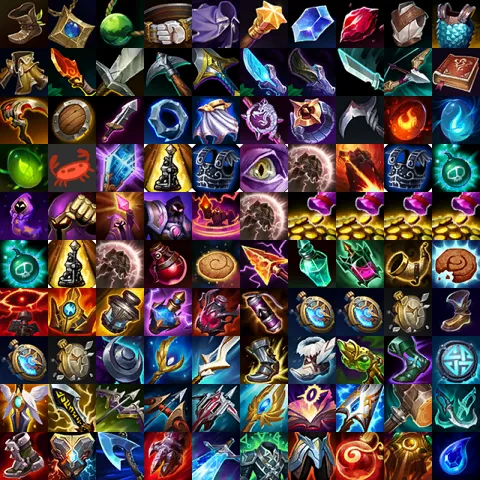
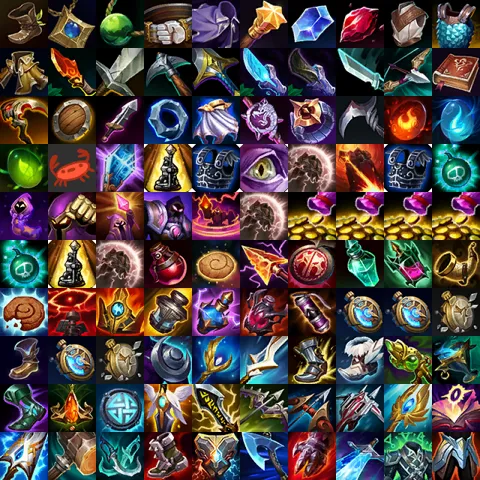
Items are now created using Riot Item API - updated sprite images

diff --git a/src/main/java/me/trup10ka/jlb/web/parser/ugg/HtmlBuildUGGParser.java b/src/main/java/me/trup10ka/jlb/web/parser/ugg/HtmlBuildUGGParser.java
@@ -2,10 +2,10 @@ package me.trup10ka.jlb.web.parser.ugg;
 
 import me.trup10ka.jlb.data.lolgame.*;
 import me.trup10ka.jlb.util.Descriptions;
-import me.trup10ka.jlb.util.itemssheet.ItemSheetCSVParser;
 import me.trup10ka.jlb.web.Page;
 import me.trup10ka.jlb.web.WrongChampionPathException;
 import me.trup10ka.jlb.web.parser.HtmlBuildPageParser;
+import me.trup10ka.jlb.web.riotapi.items.ItemRiotJSONParser;
 import org.jsoup.Connection;
 import org.jsoup.Jsoup;
 import org.jsoup.nodes.Document;
@@ -30,6 +30,8 @@ public class HtmlBuildUGGParser implements HtmlBuildPageParser
     private Document document;
     private Connection connection;
 
+    private ItemRiotJSONParser riotJSONParser;
+
     public HtmlBuildUGGParser(String champion)
     {
         setChampionToParse(champion);
@@ -42,6 +44,7 @@ public class HtmlBuildUGGParser implements HtmlBuildPageParser
         {
             this.connection = Jsoup.connect(Page.U_GG.championURL(champion));
             this.document = parse();
+            this.riotJSONParser = new ItemRiotJSONParser();
         }
         catch (RuntimeException ignored) {}
         if (validate(document))
@@ -198,8 +201,7 @@ public class HtmlBuildUGGParser implements HtmlBuildPageParser
     private Set<Item> queryItemPosition(String itemCategory)
     {
         Set<Item> coreItems = new TreeSet<>();
-
-        int[] usedPositionValues = null;
+        float[] usedPositionValues = null;
         String usedImagePath = null;
 
         for (Element element : document.select(itemCategory).select("div.item-img"))
@@ -207,28 +209,19 @@ public class HtmlBuildUGGParser implements HtmlBuildPageParser
             String startingItem = element.select("div > div").select("div > div")
                     .attr("style");
             String imagePath = imagePath(startingItem);
-            int[] positionValues = positionOfImage(startingItem);
-
+            float[] positionValues = positionOfImage(startingItem);
             if (usedPositionValues == null)
             {
-                usedPositionValues = new int[2];
+                usedPositionValues = new float[2];
                 setValuesForUsedVariables(usedPositionValues, positionValues);
                 usedImagePath = imagePath;
-                String nameOfItem = ItemSheetCSVParser.generateNameFromGivenPositionsAndSprite(positionValues, imagePath);
-                String itemDescription = Descriptions.getDescriptionOfItem(nameOfItem);
-                coreItems.add(new Item(nameOfItem, imagePath, itemDescription, positionValues[0], positionValues[1]));
+                coreItems.add(riotJSONParser.getItem(positionValues, imagePath));
                 continue;
             }
 
             if (isItemAlreadyRegistered(usedImagePath, imagePath, usedPositionValues, positionValues))
                 break;
-            String nameOfItem = ItemSheetCSVParser.generateNameFromGivenPositionsAndSprite(positionValues, imagePath);
-            String itemDescription = Descriptions.getDescriptionOfItem(nameOfItem);
-            coreItems.add(new Item(nameOfItem
-                    ,imagePath
-                    ,itemDescription
-                    ,positionValues[0]
-                    ,positionValues[1]));
+            coreItems.add(riotJSONParser.getItem(positionValues, imagePath));
         }
         return coreItems;
     }
@@ -275,7 +268,6 @@ public class HtmlBuildUGGParser implements HtmlBuildPageParser
     {
         Pattern pattern = Pattern.compile("\\((.*?)\\)");
         Matcher matcher = pattern.matcher(image);
-
         String url = matcher.find() ? matcher.group(0) : "";
 
         return url.substring(url.lastIndexOf("/") + 1, url.length() - 1).replaceAll("webp", "png");
@@ -286,7 +278,7 @@ public class HtmlBuildUGGParser implements HtmlBuildPageParser
      * @param image item image URL
      * @return array of background positions x and y
      */
-    private int[] positionOfImage(String image)
+    private float[] positionOfImage(String image)
     {
         Pattern pattern = Pattern.compile("(?<=background-position:).*?(?=;)");
         Matcher matcher = pattern.matcher(image);
@@ -295,9 +287,9 @@ public class HtmlBuildUGGParser implements HtmlBuildPageParser
         String positionParseAble = position.replaceAll("px", "");
         String[] result = positionParseAble.split(" ");
 
-        int positionX = Integer.parseInt(result[0]);
-        int positionY = Integer.parseInt(result[1]);
-        return new int[]{positionX, positionY};
+        float positionX = Float.parseFloat(result[0]);
+        float positionY = Float.parseFloat(result[1]);
+        return new float[]{positionX, positionY};
     }
     /**
      * Checks whether the specified item is already saved
@@ -310,8 +302,8 @@ public class HtmlBuildUGGParser implements HtmlBuildPageParser
      */
     private boolean isItemAlreadyRegistered(String usedImagePath,
                                             String imagePath,
-                                            int[] positionValues,
-                                            int[] usedPositionValues)
+                                            float[] positionValues,
+                                            float[] usedPositionValues)
     {
         return usedPositionValues[0] == positionValues[0] && usedPositionValues[1] == positionValues[1] && usedImagePath.equals(imagePath);
     }
@@ -321,7 +313,7 @@ public class HtmlBuildUGGParser implements HtmlBuildPageParser
      * @param usedPositionValues old used position values
      * @param positionValues new position values
      */
-    private void setValuesForUsedVariables(int[] usedPositionValues, int[] positionValues)
+    private void setValuesForUsedVariables(float[] usedPositionValues, float[] positionValues)
     {
         usedPositionValues[0] = positionValues[0];
         usedPositionValues[1] = positionValues[1];

diff --git a/src/main/java/me/trup10ka/jlb/web/riotapi/items/ItemRiotJSONParser.java b/src/main/java/me/trup10ka/jlb/web/riotapi/items/ItemRiotJSONParser.java
@@ -1,0 +1,107 @@
+package me.trup10ka.jlb.web.riotapi.items;
+
+import me.trup10ka.jlb.data.lolgame.Item;
+import me.trup10ka.jlb.util.FormattedString;
+import org.apache.commons.io.IOUtils;
+import org.json.JSONObject;
+
+import java.io.IOException;
+import java.net.MalformedURLException;
+import java.net.URL;
+import java.nio.charset.StandardCharsets;
+
+
+public final class ItemRiotJSONParser
+{
+
+    private final URL apiURL;
+
+    private final JSONObject allItems;
+
+
+    public ItemRiotJSONParser()
+    {
+        URL url = null;
+        try
+        {
+            String RIOT_API_STRING = "http://ddragon.leagueoflegends.com/cdn/13.10.1/data/en_US/item.json";
+            url = new URL(RIOT_API_STRING);
+        } catch (MalformedURLException e)
+        {
+            System.out.println("connection failed");
+        }
+        this.apiURL = url;
+        this.allItems = getJSON();
+    }
+
+    private JSONObject getJSON()
+    {
+        String json = null;
+        try
+        {
+            json = IOUtils.toString(apiURL, StandardCharsets.UTF_8);
+        } catch (IOException e)
+        {
+            System.err.println("Error during getting JSON document");
+        }
+        assert json != null;
+        return new JSONObject(json).getJSONObject("data");
+    }
+
+    public Item getItem(String nameOfItem)
+    {
+        for (String key : allItems.keySet())
+        {
+            JSONObject item = allItems.getJSONObject(key);
+            String nameOfTheItem = item.getString("name");
+            if (FormattedString.CSV_NAME_FORMAT.toFormat(nameOfTheItem)
+                    .equals(FormattedString.CSV_NAME_FORMAT.toFormat(nameOfItem)))
+            {
+                String itemName = FormattedString.ITEM_DESCRIPTION.toFormat(nameOfTheItem);
+                String imageName = item.getJSONObject("image").getString("sprite");
+                String itemDescription = getDescriptionOfParticularItem(item);
+                float x = getItemPositionsInSprite(item.getJSONObject("image"))[0];
+                float y = getItemPositionsInSprite(item.getJSONObject("image"))[1];
+                return new Item(itemName, imageName, itemDescription, x, y);
+            }
+        }
+        System.err.println("Item was not found");
+        return null;
+    }
+
+    public Item getItem(float[] itemPositionsInSpriteImage, String imageSprite)
+    {
+        for (String key : allItems.keySet())
+        {
+            JSONObject item = allItems.getJSONObject(key);
+            JSONObject itemPositions = item.getJSONObject("image");
+            if (-itemPositions.getFloat("x") == itemPositionsInSpriteImage[0]
+                    && -itemPositions.getFloat("y") == itemPositionsInSpriteImage[1]
+                    && itemPositions.getString("sprite").equals(imageSprite))
+                return new Item(item.getString("name"),
+                        imageSprite,
+                        getDescriptionOfParticularItem(item),
+                        itemPositionsInSpriteImage[0],
+                        itemPositionsInSpriteImage[1]
+                        );
+        }
+        System.err.println("ItemRiotJSONParser error: Did not find item with same sprite X and Y's");
+        return null;
+    }
+
+    public String getDescriptionOfParticularItem(JSONObject item)
+    {
+        if (item != null)
+            return FormattedString.ITEM_DESCRIPTION.toFormat(item.getString("description"));
+        System.err.println("ItemRiotJSONParser error: Item was null");
+        return null;
+    }
+
+    private float[] getItemPositionsInSprite(JSONObject item)
+    {
+        if (item != null)
+            return new float[] {-item.getFloat("x"), -item.getFloat("y")};
+        System.err.println("ItemRiotJSONParser: Item has no image properties");
+        return null;
+    }
+}

diff --git a/src/main/java/me/trup10ka/jlb/web/parser/lographs/HtmlBuildLoGParser.java b/src/main/java/me/trup10ka/jlb/web/parser/lographs/HtmlBuildLoGParser.java
@@ -2,10 +2,10 @@ package me.trup10ka.jlb.web.parser.lographs;
 
 import me.trup10ka.jlb.data.lolgame.*;
 import me.trup10ka.jlb.util.Descriptions;
-import me.trup10ka.jlb.util.itemssheet.ItemSheetCSVParser;
 import me.trup10ka.jlb.web.Page;
 import me.trup10ka.jlb.web.WrongChampionPathException;
 import me.trup10ka.jlb.web.parser.HtmlBuildPageParser;
+import me.trup10ka.jlb.web.riotapi.items.ItemRiotJSONParser;
 import org.jsoup.Connection;
 import org.jsoup.Jsoup;
 import org.jsoup.nodes.Document;
@@ -20,6 +20,8 @@ public final class HtmlBuildLoGParser implements HtmlBuildPageParser
 
     private Document document;
     private Connection connection;
+
+    private ItemRiotJSONParser riotJSONParser;
     private final Elements COLUMNS_WITH_ITEMS;
     private final Elements ALL_BOXES_WITH_CONTENT;
 
@@ -34,6 +36,7 @@ public final class HtmlBuildLoGParser implements HtmlBuildPageParser
         setChampionToParse(url);
         this.COLUMNS_WITH_ITEMS = document.select("div.box.box-padding-10.overviewBox").select("div.columns");
         this.ALL_BOXES_WITH_CONTENT = document.select("div.box.box-padding-10.overviewBox");
+        this.riotJSONParser = new ItemRiotJSONParser();
 
         this.numberOfKeystoneRunes = calculateNumberOfKeystoneRunes();
         this.numberOfSideRunes = calculateNumberSideRunes();
@@ -182,7 +185,7 @@ public final class HtmlBuildLoGParser implements HtmlBuildPageParser
             if (!startingItem.attr("tooltip-class").equals("itemTooltip") ||
                     !startingItem.attr("height").equals("48"))
                 continue;
-            item = ItemSheetCSVParser.getItemFromName(startingItem.first().attr("alt"));
+            item = riotJSONParser.getItem(startingItem.first().attr("alt"));
         }
         return item;
     }
@@ -199,7 +202,7 @@ public final class HtmlBuildLoGParser implements HtmlBuildPageParser
                 if (!startingItem.attr("tooltip-class").equals("itemTooltip") ||
                         !startingItem.attr("height").equals("48"))
                     continue;
-                Item item = ItemSheetCSVParser.getItemFromName(startingItem.attr("alt"));
+                Item item = riotJSONParser.getItem(startingItem.attr("alt"));
                 if (item == null)
                     continue;
                 items.add(item);

diff --git a/src/main/java/me/trup10ka/jlb/util/Descriptions.java b/src/main/java/me/trup10ka/jlb/util/Descriptions.java
@@ -1,24 +1,18 @@
 package me.trup10ka.jlb.util;
 
-import me.trup10ka.jlb.web.riotapi.items.ItemDescriptionJSONParser;
 import me.trup10ka.jlb.web.riotapi.runes.RunesDescriptionJSONParser;
 
 public final class Descriptions
 {
-    private static final ItemDescriptionJSONParser itemDescriptionParser;
 
     private static final RunesDescriptionJSONParser runeDescriptionParser;
 
     static
     {
-        itemDescriptionParser = new ItemDescriptionJSONParser();
         runeDescriptionParser = new RunesDescriptionJSONParser();
     }
 
-    public static String getDescriptionOfItem(String item)
-    {
-        return itemDescriptionParser.getDescriptionOfParticularItem(item);
-    }
+
     public static String getDescriptionOfRune(String rune)
     {
         return runeDescriptionParser.getDescriptionForRune(rune);

diff --git a/src/main/java/me/trup10ka/jlb/controllers/BuildScene.java b/src/main/java/me/trup10ka/jlb/controllers/BuildScene.java
@@ -401,7 +401,7 @@ public class BuildScene
 
     private void createTooltipForItem(Item item, Node node)
     {
-        String description = FormattedString.ITEM_NAME_FORMAT.toFormat(item.name()) + "\n\n" + Descriptions.getDescriptionOfItem(item.name());
+        String description = FormattedString.ITEM_NAME_FORMAT.toFormat(item.name()) + "\n\n" + item.description();
         assignTooltipForNode(node, description);
     }
     private void createTooltipForRune(Rune rune, Node node)

diff --git a/src/main/java/me/trup10ka/jlb/app/Main.java b/src/main/java/me/trup10ka/jlb/app/Main.java
@@ -6,9 +6,6 @@ public class Main
 {
     public static void main(String[] args)
     {
-        /*TestClass testClass = new TestClass();
-        testClass.createNewChampion();*/
-
         Application.launch(JavaLeagueBuilds.class, args);
     }
 }
